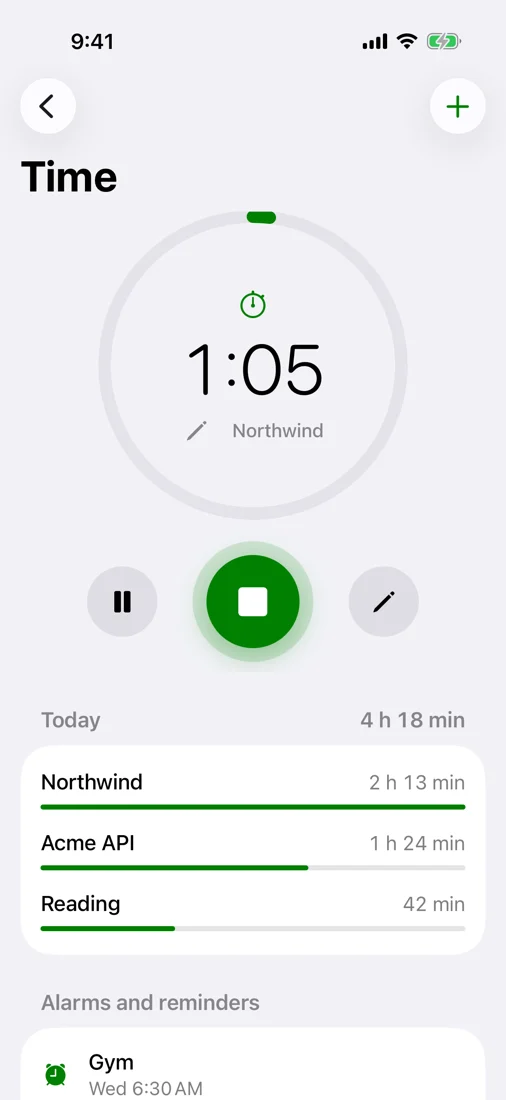
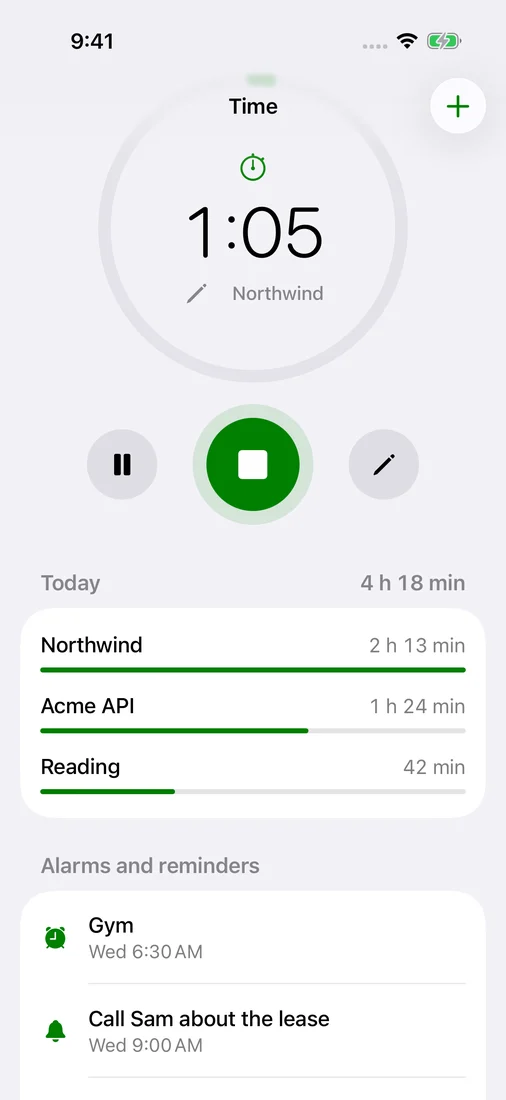
Time page: Glyph Time is its own iPhone app; new iPhone shots

diff --git a/docs/time/index.html b/docs/time/index.html
@@ -102,7 +102,7 @@
       <figure class="view" data-k="nudge" data-d="mac" style="margin:0"><img class="shot" src="/time/nudge.webp" width="1400" height="900" alt="The half-hour nudge: 1 h 30 min on acme-api, with Keep going and Stop" loading="lazy"></figure>
       <figure class="view" data-k="countdown" data-d="mac" style="margin:0"><img class="shot" src="/time/countdown.webp" width="1400" height="900" alt="A countdown at zero: Time is up on acme-api, then counting the time over, with Keep going and Stop" loading="lazy"></figure>
       <figure class="view" data-k="settings" data-d="mac" style="margin:0"><img class="shot" src="/time/settings.webp" width="1400" height="900" alt="Glyph Time settings: nudge every 30 minutes, pause when away for 5 minutes, sessions saved to a vault folder, and switches to show it in the Dock and the menu bar, and shortcuts: Control Option T to start or pause, Control Option M to minimize or keep open" loading="lazy"></figure>
-      <figure class="view" data-k="iphone" data-d="iphone" style="margin:0"><img class="phone" src="/time/iphone-today-1.webp" width="506" height="1100" alt="Glyph Time in the Glyph app on iPhone: Northwind running at 1:05, over today's totals by project" loading="lazy"><img class="phone" src="/time/iphone-today-2.webp" width="506" height="1100" alt="Countdowns of 5, 15, 25 and 50 minutes, today's 4 h 19 min by project, and the alarms and reminders" loading="lazy"></figure>
+      <figure class="view" data-k="iphone" data-d="iphone" style="margin:0"><img class="phone" src="/time/iphone-today-1.webp" width="506" height="1100" alt="Glyph Time on iPhone, its own app: Northwind running at 1:05, over today's totals by project" loading="lazy"><img class="phone" src="/time/iphone-today-2.webp" width="506" height="1100" alt="Countdowns of 5, 15, 25 and 50 minutes, today's 4 h 19 min by project, and the alarms and reminders" loading="lazy"></figure>
       <figure class="view" data-k="alarms" data-d="iphone" style="margin:0"><img class="phone" src="/time/iphone-alarms-1.webp" width="506" height="1100" alt="Alarms and reminders on iPhone: Gym, Call Sam about the lease, Early flight, Dentist and more" loading="lazy"><img class="phone" src="/time/iphone-alarms-2.webp" width="506" height="1100" alt="A new alarm on iPhone: Stretch, with its day and time" loading="lazy"></figure>
     </div>
     <div class="seg" id="tabs" role="tablist" aria-label="Glyph Time on screen">
@@ -130,7 +130,7 @@
     <div class="fq"><h3>Saved to your vault</h3><p>One line per start, pause, resume, nudge and stop, in plain files. Each Mac writes its own file, so a synced folder never conflicts. Quit or crash and the clock picks up where it was.</p></div>
     <div class="fq"><h3>Made for Glyph Studio</h3><p>Point it at a Studio vault and it also writes a short summary by project and device, where Studio and your agents read it.</p></div>
     <div class="fq"><h3>Private</h3><p>Only the project name and the front app are kept: never a window title, a URL or anything you typed.</p></div>
-    <div class="fq"><h3>iPhone</h3><p>Time is in the Glyph app on iPhone too: the clock, countdowns, alarms and reminders, saved to the same vault. In TestFlight testing, not on the App Store yet.</p></div>
+    <div class="fq"><h3>iPhone</h3><p>Glyph Time is its own iPhone app: it opens on the clock, with countdowns, alarms and reminders, saved to the same vault as the Mac. In testing, not on the App Store yet.</p></div>
     <div class="fq"><h3>Open source</h3><p>MIT. Signed and notarized by Apple.</p></div>
   </div>
 </dialog>
